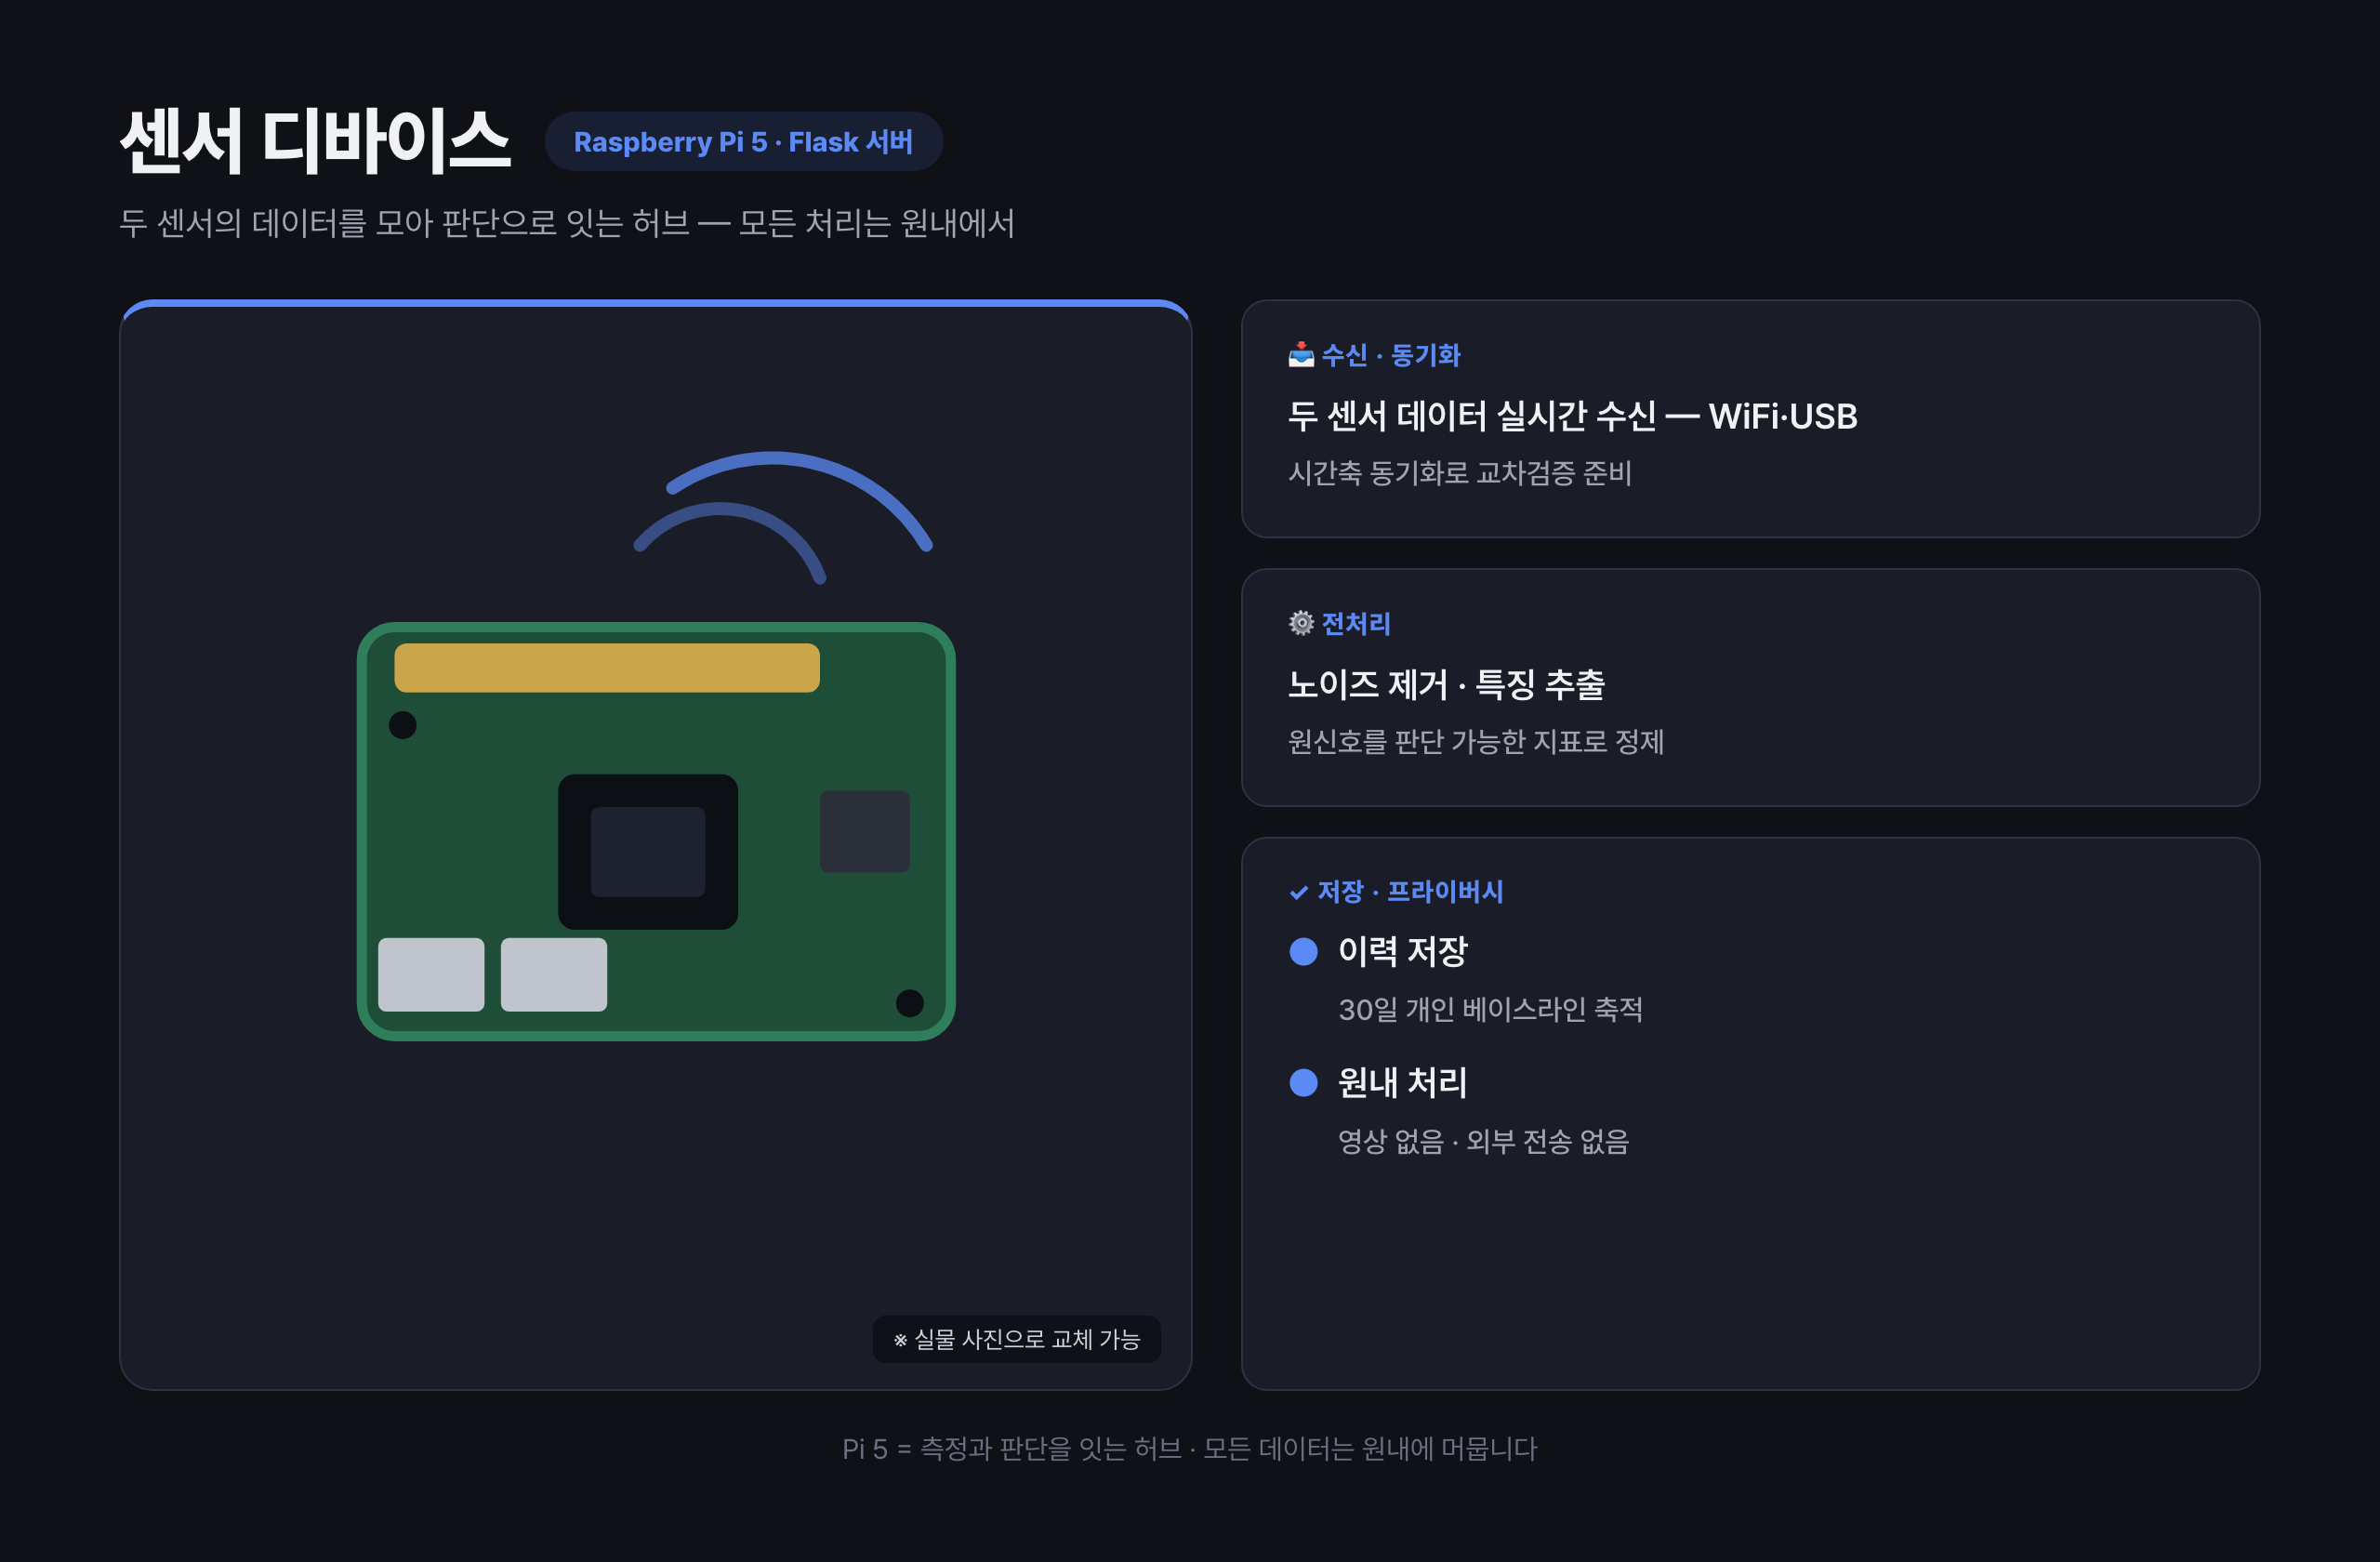
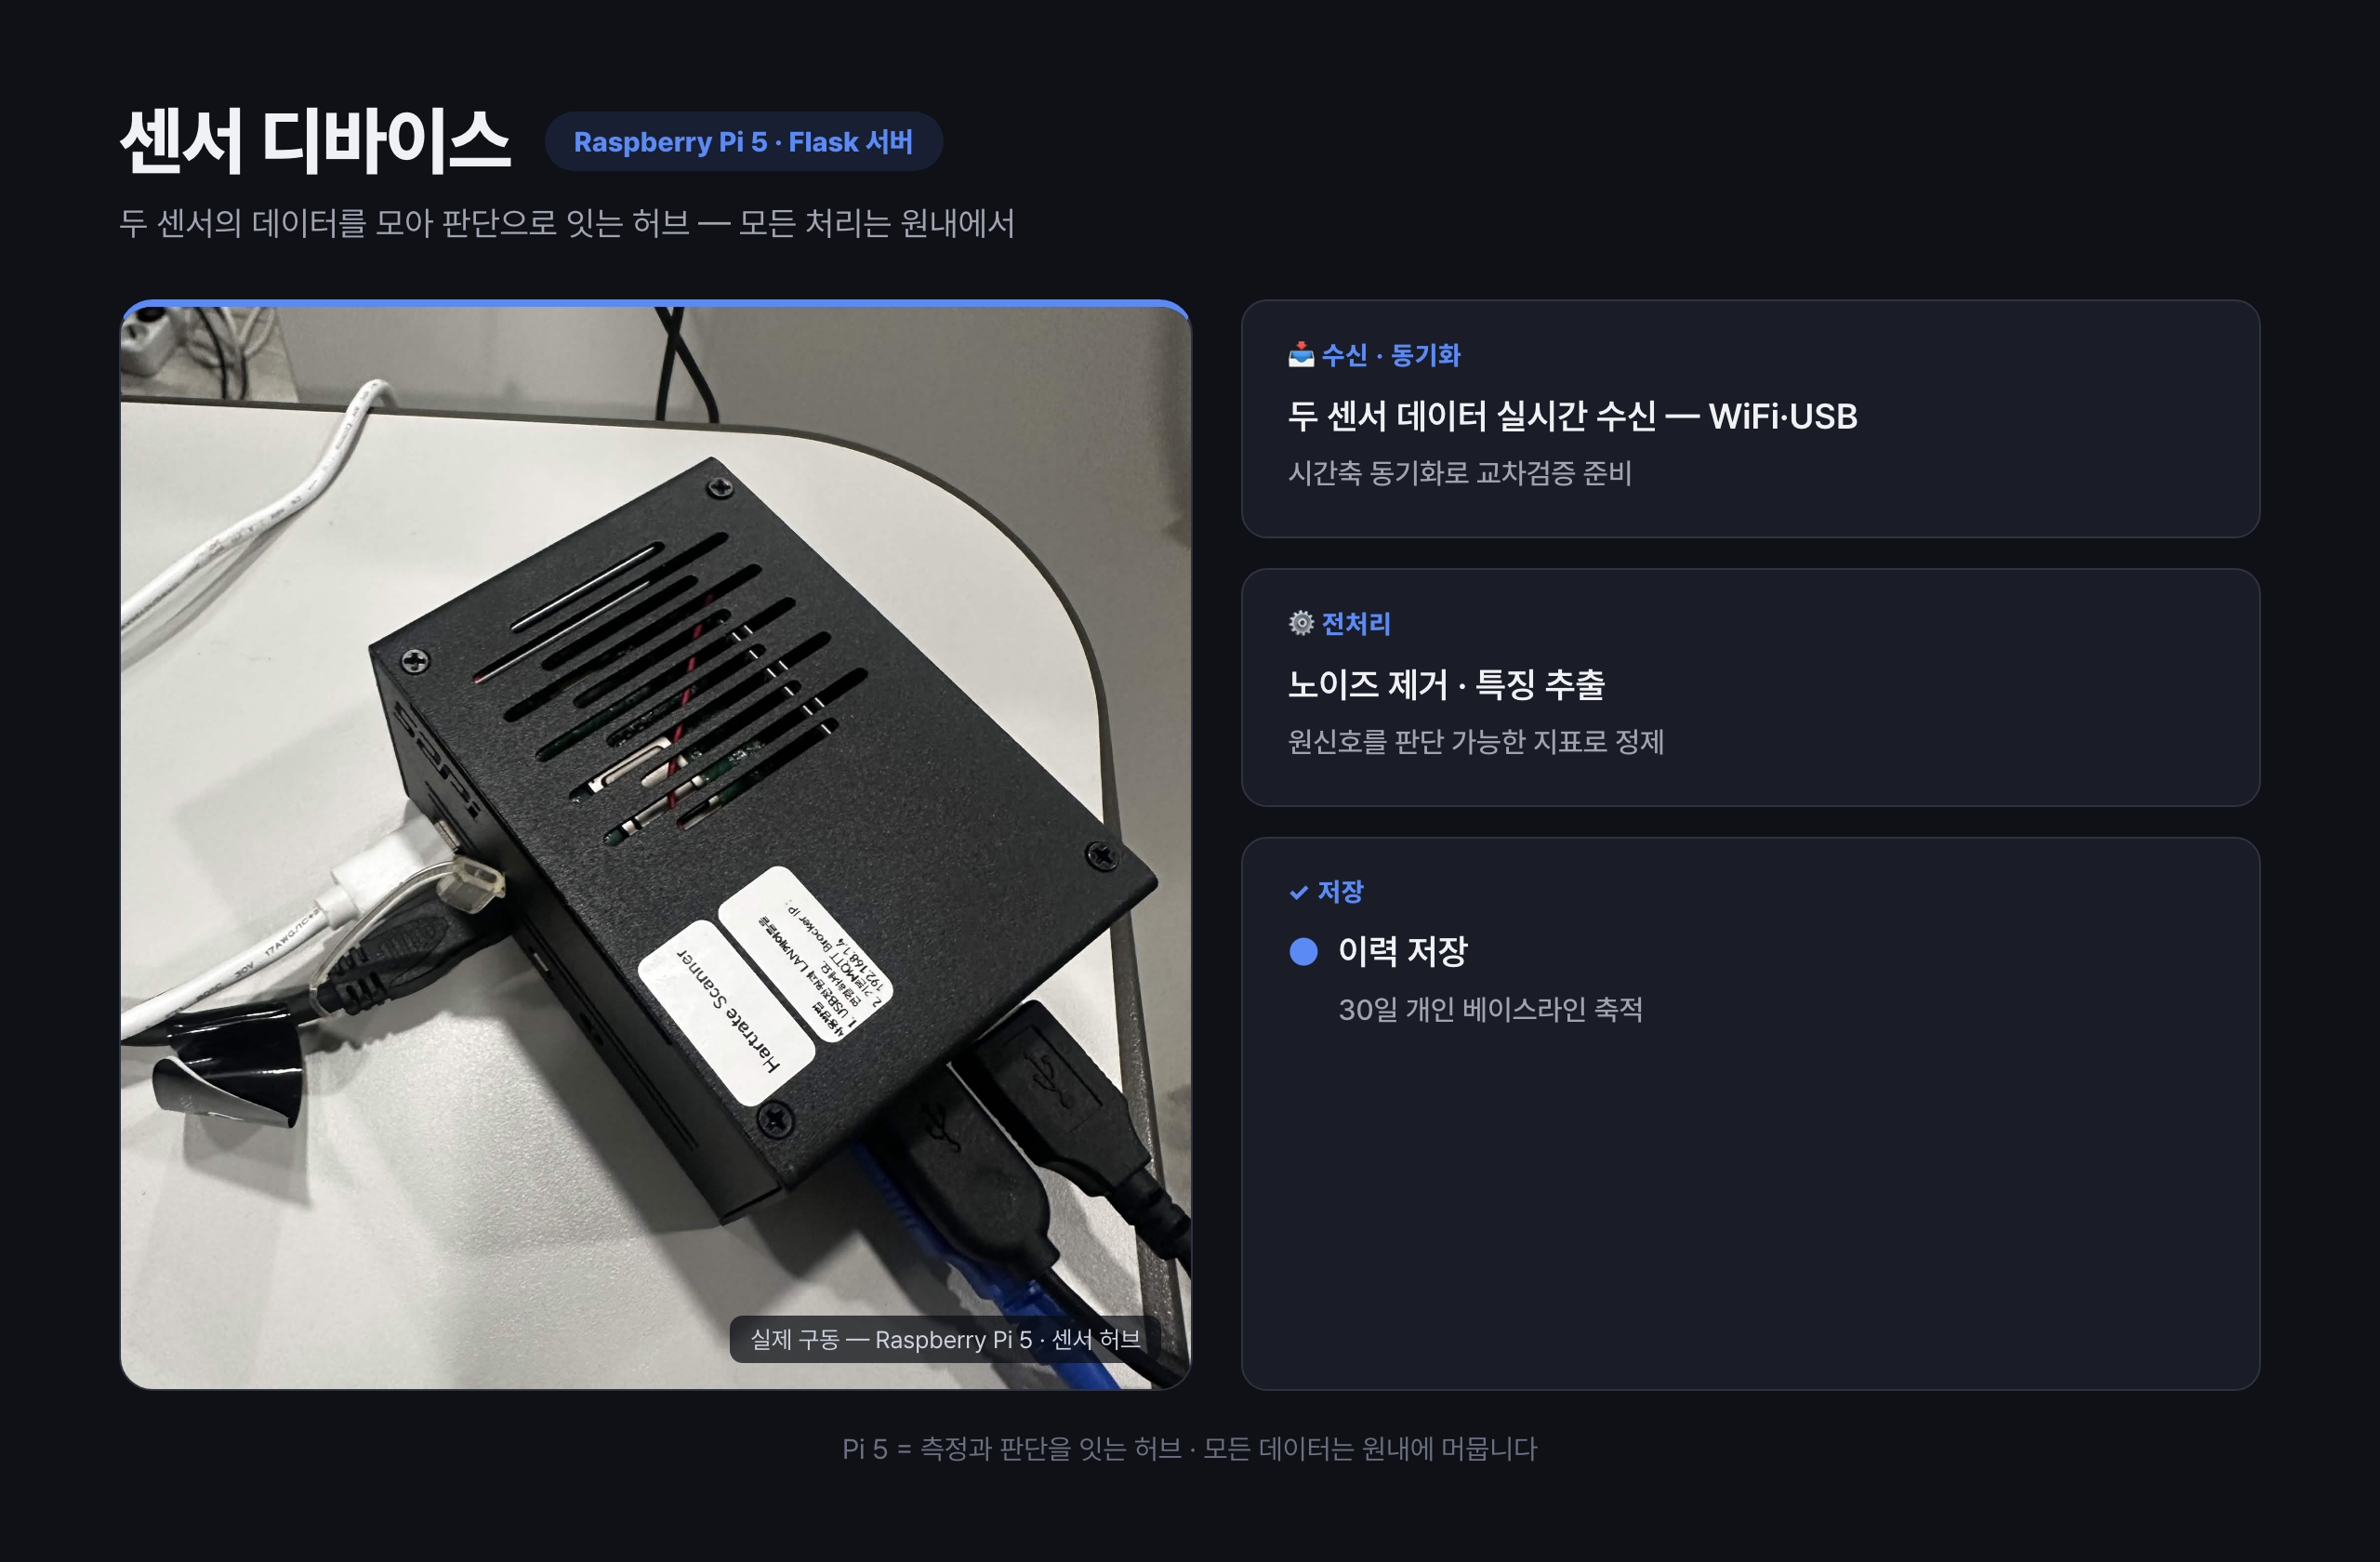
docs(piuda): Pi 카드 실물 사진 반영 + '원내 처리' 항목 제거 (기본·세부 모두)
Claude-Session: https://claude.ai/code/session_01S8yxnUuux86mygCHFJzXQR

Changed region(s): [[0.0312, 0.1857, 0.5, 0.8976], [0.5312, 0.681, 0.6875, 0.7429], [0.5938, 0.5571, 0.625, 0.5881]]

diff --git a/piuda/index.html b/piuda/index.html
@@ -619,7 +619,7 @@
 <rect x="21" y="41" width="9" height="6" rx="1" fill="#c0c4cc"/>
 <circle cx="12" cy="27" r="1.6" fill="#12151c"/><circle cx="52" cy="44" r="1.6" fill="#12151c"/>
 </svg></div>
-        <div style="font-size:13.5px;color:var(--text-2);line-height:1.55;display:flex;flex-direction:column;gap:3px;"><div style="display:flex;gap:5px;"><span style="color:var(--text-3);">&bull;</span><span>데이터 수신·시간 동기화</span></div><div style="display:flex;gap:5px;"><span style="color:var(--text-3);">&bull;</span><span>노이즈 제거·특징 추출</span></div><div style="display:flex;gap:5px;"><span style="color:var(--text-3);">&bull;</span><span>원내 저장 — 외부 전송 없음</span></div></div>
+        <div style="font-size:13.5px;color:var(--text-2);line-height:1.55;display:flex;flex-direction:column;gap:3px;"><div style="display:flex;gap:5px;"><span style="color:var(--text-3);">&bull;</span><span>데이터 수신·시간 동기화</span></div><div style="display:flex;gap:5px;"><span style="color:var(--text-3);">&bull;</span><span>노이즈 제거·특징 추출</span></div></div>
     </div><div style="align-self:center;color:var(--text-3);font-size:22px;flex:0 0 auto;">&rarr;</div><div style="flex:1;background:var(--surface-2);border:1px solid var(--border);border-radius:12px;padding:18px 17px;display:flex;flex-direction:column;">
         <div style="display:flex;align-items:center;gap:8px;margin-bottom:8px;"><div style="width:30px;height:30px;border-radius:50%;background:#a78bfa;color:#0f1117;font-size:13px;font-weight:900;display:flex;align-items:center;justify-content:center;flex:0 0 auto;">4</div><span style="font-size:15.5px;font-weight:800;color:var(--text-1);line-height:1.25;">위험도 인식 알고리즘</span></div>
         <div style="width:108px;height:88px;background:var(--purple-soft);border-radius:12px;display:flex;align-items:center;justify-content:center;margin:2px auto 10px;"><svg width="78" height="78" viewBox="0 0 64 64">
@@ -846,7 +846,7 @@ function switchLayout5(id) {
         {src:'sensor3d.png?v=2', cap:'센서 3D 배치 — 요양병원 단독실 (mmWave 폴 · ToF 머리맡/발치)'},
         {src:'sensor_mmwave.png?v=7', cap:'mmWave 레이더 — IWR6843AOP · 위치·보행·심박·호흡'},
         {src:'sensor_tof.png?v=6', cap:'ToF 센서 — VL53L5CX · 자세 형태·가장자리 접근'},
-        {src:'sensor_pi.png?v=1', cap:'센서 디바이스 — Raspberry Pi 5 · 수신·동기화·전처리·원내 저장'}
+        {src:'sensor_pi.png?v=3', cap:'센서 디바이스 — Raspberry Pi 5 · 수신·동기화·전처리·원내 저장'}
     ];
     let idx=0;
     const lb=document.getElementById('lb'), img=document.getElementById('lbImg'),